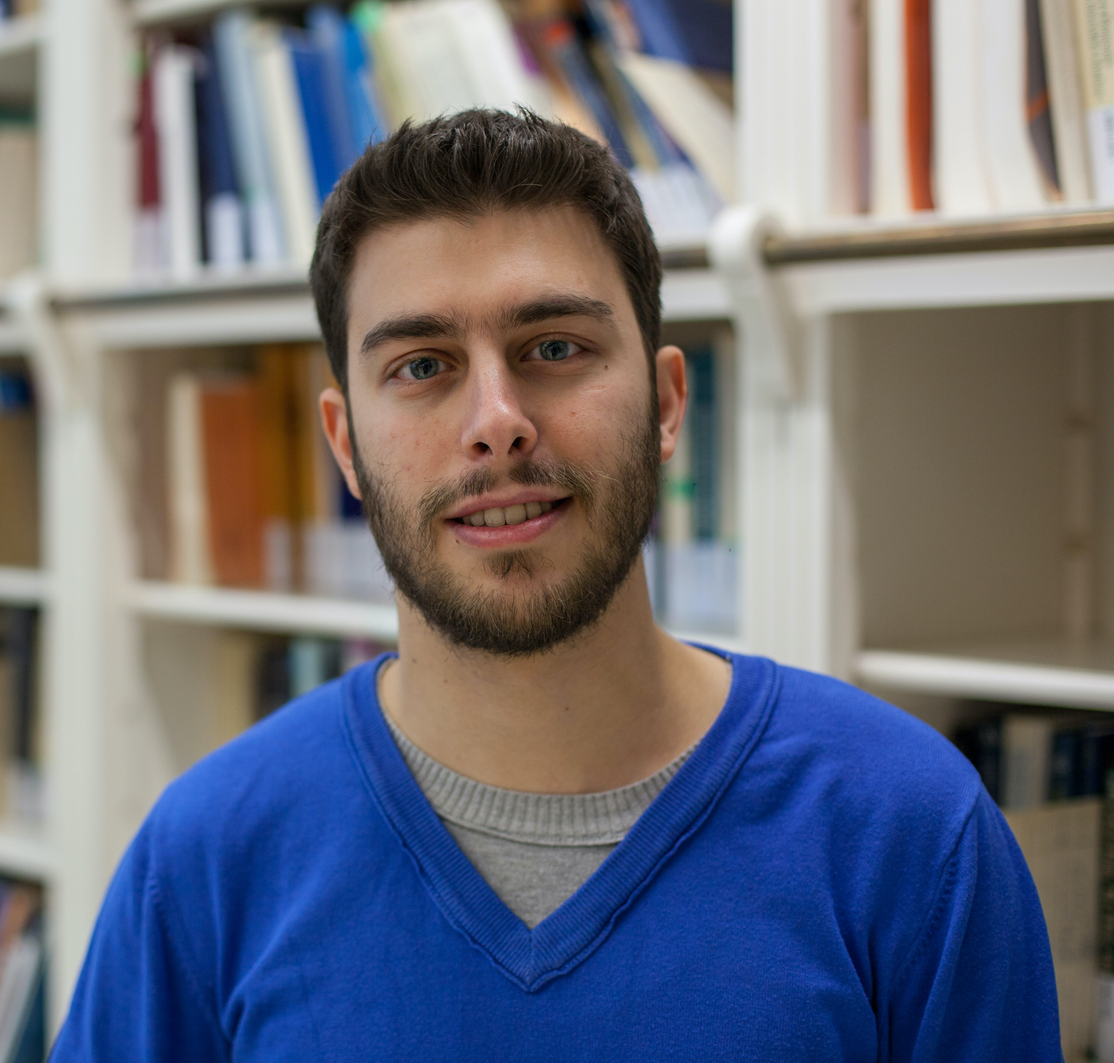
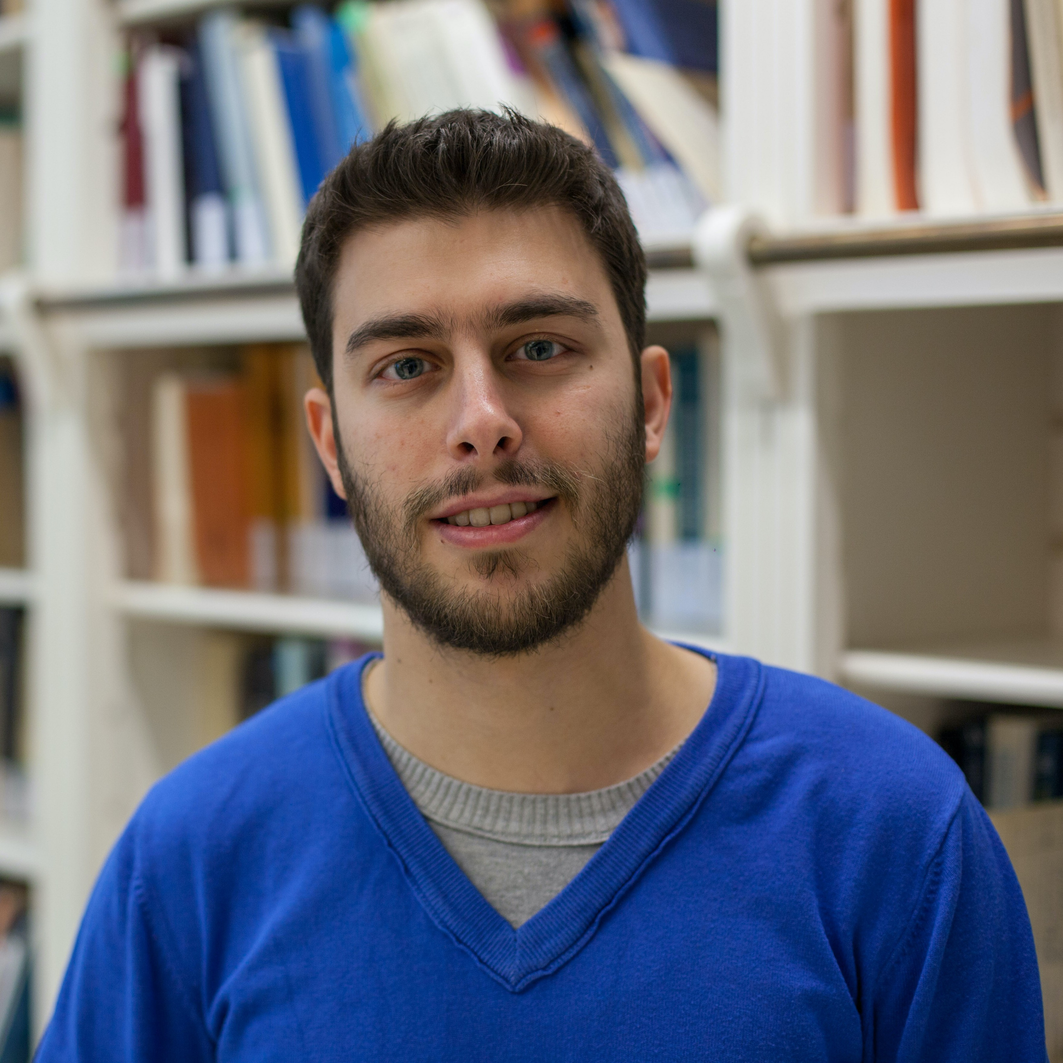
resizing team images

diff --git a/team.html b/team.html
@@ -200,7 +200,7 @@
 
         <div class="col-md text-center col-half-offset">
           <div class="thumbnail">
-          <img style= "width: 125px; height: 125px; vertical-align: top;" src="images/teams/MaxBriel.jpg" alt="" loading="eager">
+          <img style= "width: 125px; height: 125px; vertical-align: top;" src="images/teams/MaxBriel_resize.jpg" alt="" loading="eager">
           <p></p>
           <h5><a href="https://maxbriel.com/" target="_blank" style="color: rgb(0,0,0)">Max Briel</a></h5>
           <p class="card-text">Universit&#233; de Gen&#232;ve</p>
@@ -235,7 +235,7 @@
 
         <div class="col-md text-center col-half-offset">
           <div class="thumbnail">
-          <img style= "width: 125px; height: 125px; vertical-align: top;" src="images/teams/CamilleLiotine.jpeg" alt="" loading="eager">
+          <img style= "width: 125px; height: 125px; vertical-align: top;" src="images/teams/CamilleLiotine_resize.jpg" alt="" loading="eager">
           <p></p>
           <h5><a href="https://www.linkedin.com/in/camille-liotine-astro/" target="_blank" style="color: rgb(0,0,0)">Camille Liotine</a></h5>
           <p class="card-text">Northwestern University</p>
@@ -254,7 +254,7 @@
 
         <div class="col-md text-center col-half-offset">
             <div class="thumbnail">
-            <img style= "width: 125px; height: 125px; vertical-align: top;" src="images/teams/ElizabethTeng.jpg" alt="" loading="eager">
+            <img style= "width: 125px; height: 125px; vertical-align: top;" src="images/teams/ElizabethTeng_resize.jpg" alt="" loading="eager">
             <p></p>
             <h5><a href="https://www.linkedin.com/in/elizabeth-teng/" target="_blank" style="color: rgb(0,0,0)">Elizabeth Teng</a></h5>
             <p class="card-text">Northwestern University</p>
@@ -300,7 +300,7 @@
 
         <div class="col-md text-center col-half-offset">
             <div class="thumbnail">
-            <img style= "width: 125px; max-height: 125px; vertical-align: top;" src="images/teams/ChristopherBerry.JPG" alt="" loading="lazy">
+            <img style= "width: 125px; max-height: 125px; vertical-align: top;" src="images/teams/ChristopherBerry_resize.JPG" alt="" loading="lazy">
             <p></p>
             <h5><a href="https://cplberry.com/" target="_blank" style="color: rgb(0,0,0)">Christopher Berry</a></h5>
             <p class="card-text">University of Glasgow</p>
@@ -309,7 +309,7 @@
 
         <div class="col-md text-center col-half-offset">
           <div class="thumbnail">
-            <img style= "width: 125px; height: 125px; vertical-align: top;" src="images/teams/AbhishekChattaraj.png" alt="" loading="lazy">
+            <img style= "width: 125px; height: 125px; vertical-align: top;" src="images/teams/AbhishekChattaraj_resize.png" alt="" loading="lazy">
             <p></p>
             <h5><a target="_blank" style="color: rgb(0,0,0)">Abhishek Chattaraj</a></h5>
             <p class="card-text">University of Florida</p>
@@ -320,7 +320,7 @@
 
         <div class="col-md text-center col-half-offset">
             <div class="thumbnail">
-              <img style= "width: 125px; height: 125px; vertical-align: top;" src="images/teams/MonicaGallegosGarcia.png" alt="" loading="lazy">
+              <img style= "width: 125px; height: 125px; vertical-align: top;" src="images/teams/MonicaGallegosGarcia_resize.png" alt="" loading="lazy">
               <p></p>
               <h5><a href="https://mpgalleg.github.io/" target="_blank" style="color: rgb(0,0,0)">Monica Gallegos-Garcia</a></h5>
               <p class="card-text">Harvard University</p>
@@ -329,7 +329,7 @@
 
         <div class="col-md text-center col-half-offset">
           <div class="thumbnail">
-            <img style= "width: 125px; height: 125px; vertical-align: top;" src="images/teams/EiriniKasdagli.jpg" alt="" loading="lazy">
+            <img style= "width: 125px; height: 125px; vertical-align: top;" src="images/teams/EiriniKasdagli_resize.jpg" alt="" loading="lazy">
             <p></p>
             <h5><a target="_blank" style="color: rgb(0,0,0)">Eirini Kasdagli</a></h5>
             <p class="card-text">University of Florida</p>
@@ -352,7 +352,7 @@
 
         <div class="col-md text-center col-half-offset">
           <div class="thumbnail">
-            <img style= "width: 125px; height: 125px; vertical-align: top;" src="images/teams/DevinaMisra.jpeg" alt="" loading="lazy">
+            <img style= "width: 125px; height: 125px; vertical-align: top;" src="images/teams/DevinaMisra_resize.jpg" alt="" loading="lazy">
             <p></p>
             <h5><a href="https://www.ntnu.edu/employees/devina.misra" target="_blank" style="color: rgb(0,0,0)">Devina Misra</a></h5>
             <p class="card-text">Norwegian University of Science and Technology</p>
@@ -403,7 +403,7 @@
 
       <div class="col-md text-center  col-half-offset">
           <div class="thumbnail">
-          <img style= "width: 125px; height: 125px; vertical-align: top;" src="images/teams/Manos.jpg" alt="" loading="lazy">
+          <img style= "width: 125px; height: 125px; vertical-align: top;" src="images/teams/Manos_resize.jpg" alt="" loading="lazy">
           <p></p>
           <h5><a href="https://www.ia.forth.gr/people/zapartas" target="_blank" style="color: rgb(0,0,0)">Manos Zapartas</a></h5>
           <p class="card-text">FORTH Institute of Astrophysics</p>
